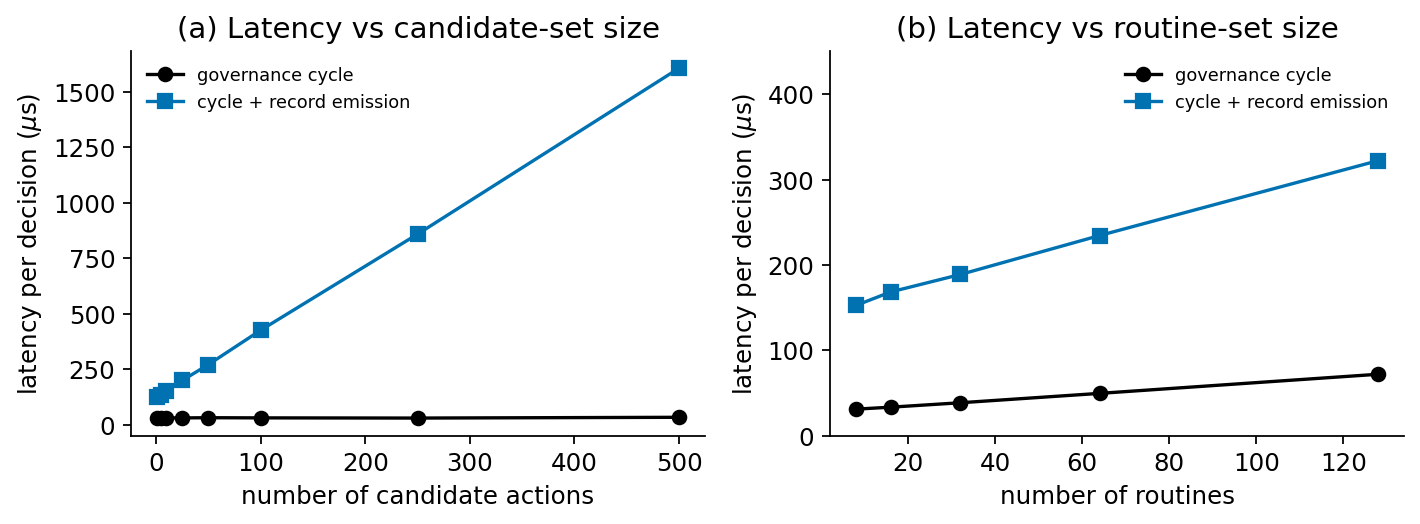
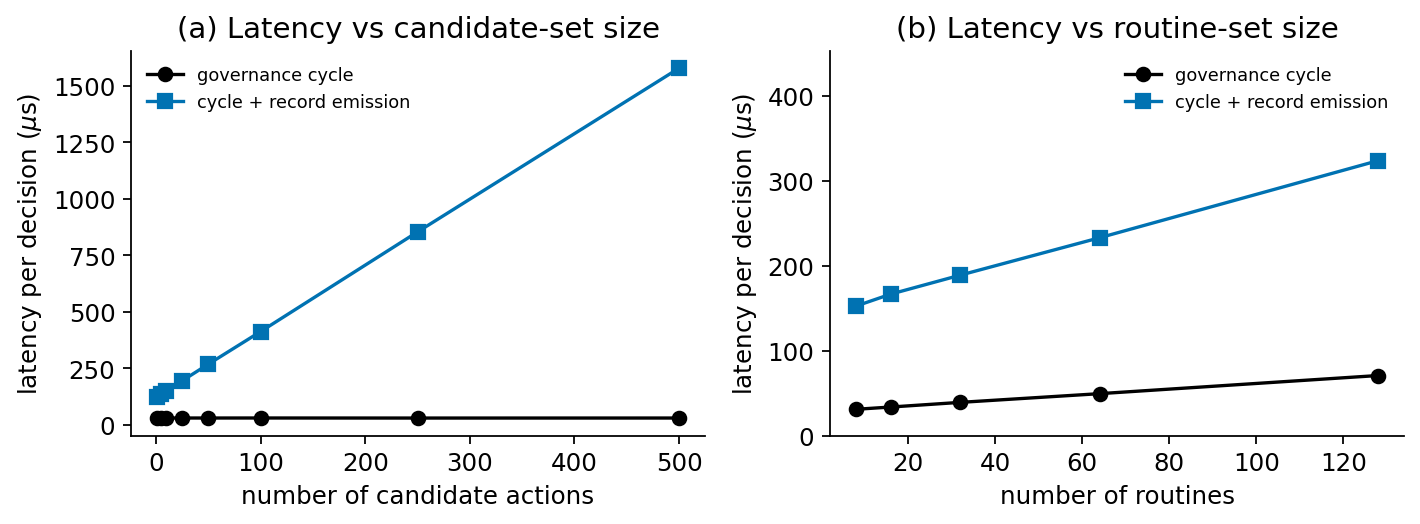
Update README and JSON results; refine descriptions in verify_properties.py

diff --git a/in-silico-experiments/tests/verify_properties.py b/in-silico-experiments/tests/verify_properties.py
@@ -27,9 +27,9 @@ Properties checked:
      Reported under three regimes: (a) recovery decisions every DT (2 min),
      i.e. faster than the 5-minute dwell; (b) recovery decisions every 6 min,
      i.e. slower than the dwell, the deployment's request-driven regime; and
-     (c) regime (a) under the entry-anchored dwell counterfactual. Regime (a)
-     exercises the deployed dwell-refresh anchoring under persistent sub-dwell
-     contradiction; the thesis analyses this mechanism.
+     (c) regime (a) under an entry-anchored dwell variant (not deployed
+     behaviour). Regime (a) exercises the deployed dwell-refresh anchoring
+     under persistent sub-dwell contradiction.
 """
 
 from __future__ import annotations
@@ -256,8 +256,8 @@ def main():
 
     safety_ok = (len(violations) == 0)
     # The deployed liveness claim is made at the deployment's request-driven
-    # (supra-dwell) cadence and under the entry-anchored counterfactual;
-    # regime (a) documents the dwell-refresh latch.
+    # (supra-dwell) cadence and under the entry-anchored variant; regime (a)
+    # documents the deployed dwell-refresh anchoring.
     liveness_ok = (b_stuck == 0 and c_stuck == 0)
     out_ok = safety_ok and liveness_ok
 
@@ -275,13 +275,13 @@ def main():
     print(f"  (a) sub-dwell recovery ({DT:g} min steps, deployed anchoring): "
           f"{a_stuck} not exited within bound"
           f"{f', max steps-to-exit = {a_exit}' if a_stuck == 0 else ''} "
-          f"[dwell-refresh latch regime]")
+          f"[deployed dwell-refresh anchoring]")
     print(f"  (b) supra-dwell recovery ({RECOVERY_SLOW_DT:g} min steps, "
           f"deployment cadence): {b_stuck} stuck; max steps-to-exit = {b_exit} "
           f"(bound {bound})")
     print(f"  (c) sub-dwell recovery under entry-anchored dwell "
-          f"(counterfactual): {c_stuck} stuck; max steps-to-exit = {c_exit} "
-          f"(bound {bound})")
+          f"(variant, not deployed behaviour): {c_stuck} stuck; "
+          f"max steps-to-exit = {c_exit} (bound {bound})")
     print("RESULT:", "PASS" if out_ok else "FAIL")
 
     import json
@@ -330,8 +330,7 @@ def main():
                 "step_minutes": DT, "not_exited_within_bound": a_stuck,
                 "max_exit_steps": a_exit,
                 "note": "deployed dwell-refresh anchoring; persistent "
-                        "sub-dwell contradiction re-arms the dwell (the "
-                        "latch analysed in the thesis)"},
+                        "sub-dwell contradiction re-arms the dwell"},
             "supra_dwell_recovery": {
                 "step_minutes": RECOVERY_SLOW_DT,
                 "stuck": b_stuck, "max_exit_steps": b_exit,

diff --git a/in-silico-experiments/README.md b/in-silico-experiments/README.md
@@ -69,13 +69,13 @@ The runner order in [experiments/run_all.py](experiments/run_all.py) is:
 
 | Study | Question | Headline result |
 |------|----------|-----------------|
-| 1 (`study1_oscillation`) | Does deterministic regulation reduce intervention oscillation and improve predictability under perception noise? (H2) | At sigma=0.15, mode-oscillation rate 2.6/h vs 18.6/h for a direct-ML policy (7.1x lower), rising only from 0.8 to 2.8/h across the noise grid, with zero immediate stance reversals anywhere; next-stance predictability 0.62 vs 0.01; intervention density 0.27/h, max 1 per budget window (the smoothed policy reaches 2.3/h but at up to 4 per window and with no decision trace). |
+| 1 (`study1_oscillation`) | Does deterministic regulation reduce intervention oscillation and improve predictability under perception noise? (H2) | At sigma=0.15, mode-oscillation rate 2.6/h vs 18.6/h for a direct-ML policy (7.1x lower), rising only from 0.8 to 2.8/h across the noise grid, with zero immediate stance reversals anywhere; next-stance predictability 0.62 vs 0.01; intervention density 0.27/h, max 1 per budget window (the smoothed policy reaches 2.2/h but at up to 4 per window and with no decision trace). |
 | 2 (`study2_audit`) | Are decision traces sufficient to reconstruct a decision, vs standard logs? (H4) | Per-property (DEMM-style) reconstructability 1.00 on all five properties, **measured per record** from 16,000 emitted decision records rather than granted by construction; 99% of decisions are deliberate non-interventions invisible to action-only logs; an intervention localises from a single record vs scanning ~32 (and failing) for a model log. |
 | 3 (`study3_sensitivity`) | How do responsiveness, support, and boundedness trade off as the governance parameters vary? | Cooldowns are the operative dial and have an interior optimum: half-scale cooldowns cut the under-support rate to 0.22 at 1.24 interventions/h, double-scale raises it to 0.75, and quarter-scale worsens it again (0.45) because early interventions exhaust budgets and trip the overload stance. Budget capacity is non-binding above one, because the deployed engine refills budgets on stance changes and session boundaries. |
 | 4 (`study4_robustness`) | Does determinism survive asynchronous/missing/multi-agent signals? | Replay from persisted pre-decision state reproduces all 12,000 decisions (trace hash, item hash, executed routine); candidate arrival order never changes a decision or its canonical hash (4,800/4,800); the missing-modality guard routes 100% of 1,920 outage decisions to DIAGNOSTIC with zero pedagogical actions on incomplete data in 120/120 episodes (the bounded integrity probe fires on 6%, the guard acting) while the ungoverned direct policy acts in 120/120 episodes; a late signal changes nothing retroactively and both runs replay exactly. |
-| 5 (`study5_latency_fairness`) | What does it cost, and is exposure bounded across subgroups? | ~31 microseconds per governance decision, flat to 500 candidates and 72 us at 128 routines; emitting the full audit record adds 0.1 to 1.6 ms as the payload grows to 46 KB, so a complete governed decision stays under 2 ms. Per-subgroup intervention density at parity 0.99 with an equal ceiling of 2 per window, vs an unbounded 15-16 per window for the direct-ML policy. |
-| 6 (`study6_fairness`) | Are interventions distributed fairly across proficiency strata? | Worst-case exposure is capped at 2 per window for every stratum, with densities 0.53-0.80/h (parity 0.66) against 15.9-35.4/h (parity 0.45) for direct-ML. Supporting-stance occupancy runs 0.14/0.31/0.66 across low/medium/high proficiency, a profile that differs from the paper's standalone implementation; the mechanism (the deployed dwell anchoring) and its scoping are analysed in the thesis. |
-| `tests/` | Safety, liveness, and adapter fidelity, on the deployed controller | Determinism, serialised replay, and candidate-order invariance hold over 3,000 randomised cases; over 960 random streams, budgets stay in range everywhere, no routine fires within its cooldown, interventions peak at 3 per 30-minute window (capacity 5), and stance changes are never closer than the 300 s dwell; bounded model checking explores 25,886 reachable states exhaustively within bound (horizon 16 steps, 7-input adversarial alphabet, clock pinned to decision time) with 0 safety violations, and every reachable COOLDOWN state exits within 3 steps at the deployment's request-driven cadence and within 7 under sub-dwell recovery (bound 20); the adapter regression pins the deployed cycle to validated reference values. |
+| 5 (`study5_latency_fairness`) | What does it cost, and is exposure bounded across subgroups? | ~31 microseconds per governance decision, flat to 500 candidates and 71 us at 128 routines; emitting the full audit record adds 0.1 to 1.6 ms as the payload grows to 46 KB, so a complete governed decision stays under 2 ms. Per-subgroup intervention density at parity 0.99 with an equal ceiling of 2 per window, vs an unbounded 15-16 per window for the direct-ML policy. |
+| 6 (`study6_fairness`) | Are interventions distributed fairly across proficiency strata? | Worst-case exposure is capped at 2 per window for every stratum, with densities 0.53-0.80/h (parity 0.66) against 15.9-35.4/h (parity 0.45) for direct-ML. Supporting-stance occupancy runs 0.14/0.31/0.66 across low/medium/high proficiency, a profile produced by the deployed dwell anchoring. |
+| `tests/` | Safety, liveness, and adapter fidelity, on the deployed controller | Determinism and serialised replay hold over 3,000 randomised cases, with candidate-order invariance over a 1,000-case subset; over 960 random streams, budgets stay in range everywhere, no routine fires within its cooldown, interventions peak at 3 per 30-minute window (capacity 5), and stance changes are never closer than the 300 s dwell; bounded model checking explores 25,886 reachable states exhaustively within bound (horizon 16 steps, 7-input adversarial alphabet, clock pinned to decision time) with 0 safety violations, and every reachable COOLDOWN state exits within 3 steps at the deployment's request-driven cadence and within 7 under sub-dwell recovery (bound 20); the adapter regression pins the deployed cycle to validated reference values. |
 
 ## Provenance, licence, data
 
